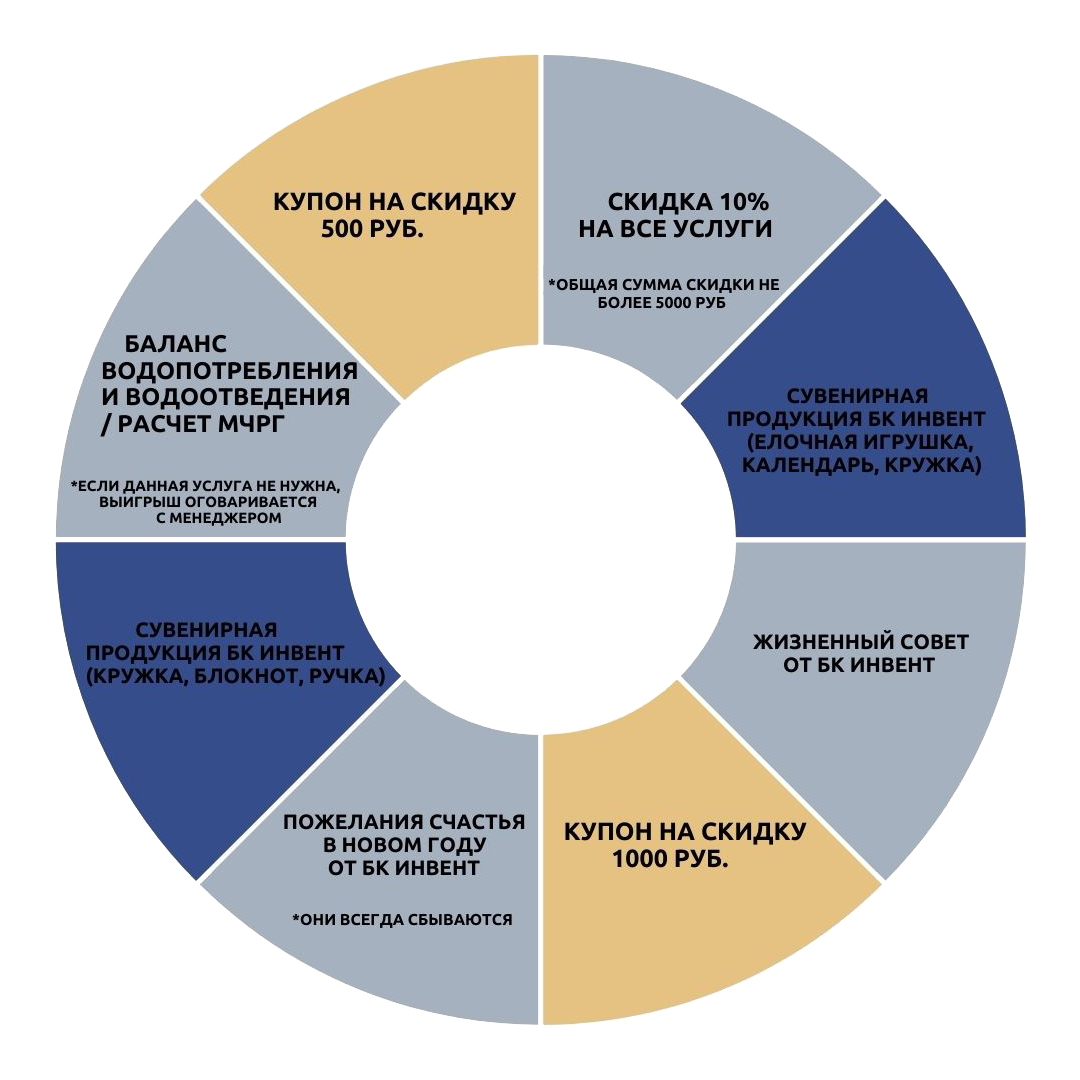
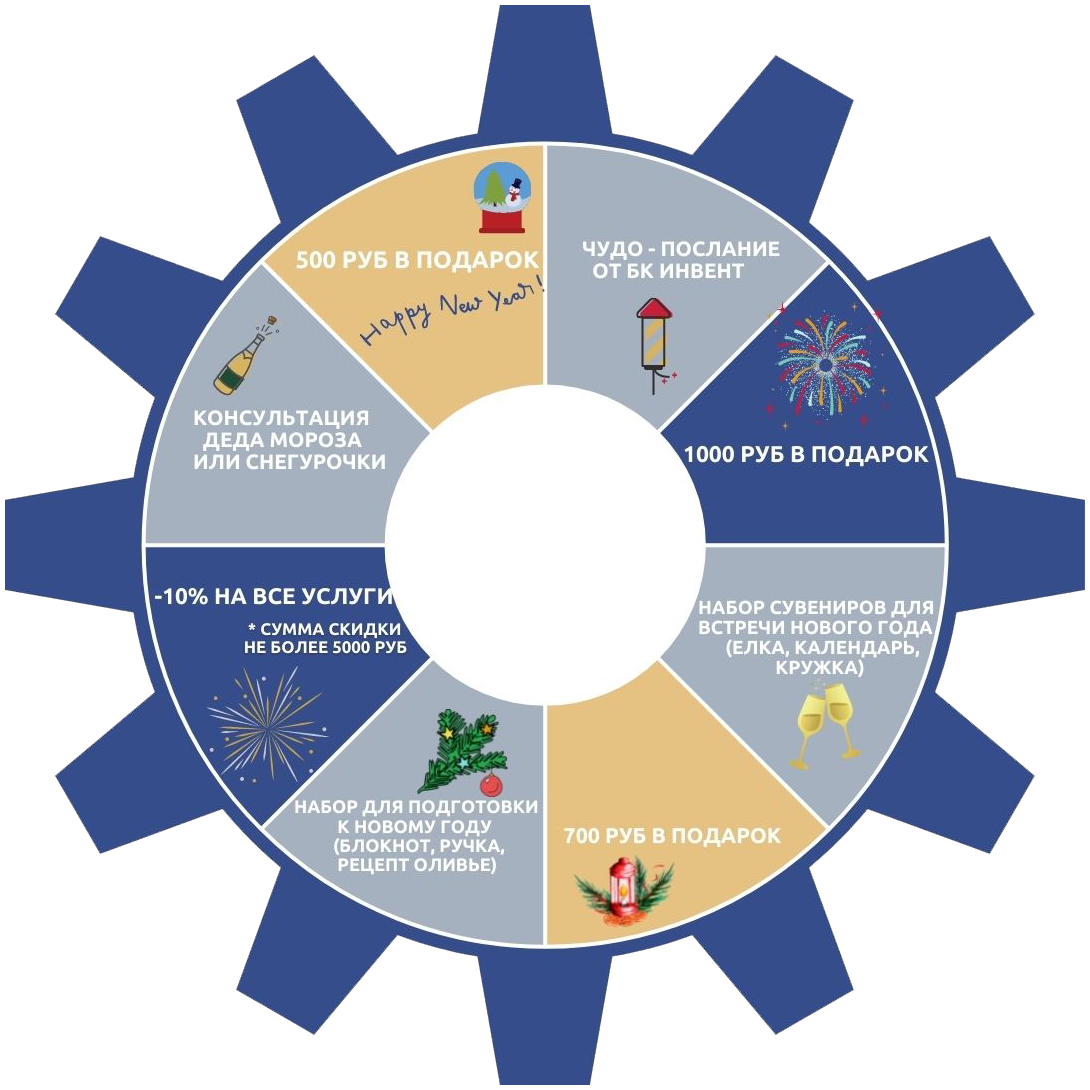
game

diff --git a/app/javascripts/gameRoulette.js b/app/javascripts/gameRoulette.js
@@ -4,43 +4,43 @@ const $ = require('jquery')
 const data = [
   {
     num: 1,
-    title: '1',
-    code: '111'
+    title: '1000 руб в подарок',
+    code: 'B5TLRJEM'
   },
   {
     num: 2,
-    title: '2',
-    code: '222'
+    title: 'Набор сувениров для встречи нового года (елка, календарь, кружка)',
+    code: '6IRLQ189'
   },
   {
     num: 3,
-    title: '3',
-    code: '333'
+    title: '700 руб в подарок',
+    code: 'KX5LX7F2'
   },
   {
     num: 4,
-    title: '4',
-    code: '444'
+    title: 'Набор для подготовки к новому году (блокнот, ручка, рецепт оливье)',
+    code: 'YE83ZAKY'
   },
   {
     num: 5,
-    title: '5',
-    code: '555'
+    title: '-10% на все услуги (* сумма скидки не более 5000 руб)',
+    code: 'QN0P6FE7'
   },
   {
     num: 6,
-    title: '6',
-    code: '666'
+    title: 'Консультация деда мороза или снегурочки',
+    code: 'PRISSDK2'
   },
   {
     num: 7,
-    title: '7',
-    code: '777'
+    title: '500 руб в подарок',
+    code: '853U87AA'
   },
   {
     num: 8,
-    title: '8',
-    code: '888'
+    title: 'Чудо - послание от БК инвент',
+    code: '1K2DGH4U'
   }
 ]
 
@@ -51,8 +51,12 @@ $(function() {
   // localStorage.getItem('test')
 
     let $modalGameRoulette = $('#modal__game-roulette')
+    let $modalGameRouletteCode = $('#modal__game-roulette-code')
     let $modalGameRouletteRun = $('.game-roulette-run')
-    let $modalGameRouletteCode = $('#game-roulette-code')
+    let $gameRouletteForm = $('#gameRouletteForm')
+    
+    let $gameRouletteLogo = $('#game-roulette-logo')
+    let $gameRouletteBtn = $('#game-roulette-btn')
 
     $modalGameRouletteRun.click(function() {
 
@@ -69,8 +73,14 @@ $(function() {
             })
     
             if(element) {
-                alert("Ваш промокод: " + element.title)
-                // $modalGameRoulette.openModal() // Убрать
+                let html = `<h3 style=" color: #4274d6; margin-bottom: 13px; ">Ваш приз</h3><b>${element.title}</b> <br><br><br> Ваш промокод: 
+                <b><spsn style="
+                    border: 2px dashed #f2c37f;
+                    padding: 5px 8px;
+                    margin-left: 4px;
+                ">${element.code}</span></b>`
+                $('#game-roulette-code-html').html(html);
+                $modalGameRouletteCode.openModal()
             } else {
                 $modalGameRoulette.openModal()
             }
@@ -108,32 +118,128 @@ $(function() {
         duration: 2 * 1000,
         elem: div,
         callback: function() {
-            console.log(num)
+            // console.log(num)
             localStorage.setItem('gameRouletteNum', num);
-            let code = null 
+            
+            let element = null 
+            
             data.forEach(el => {
                 if (el.num == num) {
-                    code = el.code
+                  element = el
                 }
             })
-            $modalGameRouletteCode.html('Ваш промокод: ' + code)
+            // $('#game-roulette-code').html(
+            //   `Ваш промокод: 
+            //   <b><span style="
+            //       border: 2px dashed #f2c37f;
+            //       padding: 5px 8px;
+            //       margin-left: 4px;;
+            //     ">${code}</span></b><br><br>`
+            // )
+
+
+            // let element
+            // data.forEach(el => {
+            //     if (el.num == gameRouletteNum) {
+            //         element = el
+            //     }
+            // })
+    
+            let html = `<h3 style=" color: #4274d6; margin-bottom: 13px; ">Ваш приз</h3><b>${element.title}</b> <br><br> Ваш промокод: 
+            <b><spsn style="
+                border: 2px dashed #f2c37f;
+                padding: 5px 8px;
+                margin-left: 4px;
+            ">${element.code}</span></b><br><br>`
+            
+            $('#game-roulette-code').html(html);
+
+            $('#modal__game-roulette-form').openModal()
             // $modalGameRoulette.closeModal()
             // $modalGameRoulette.closeModal()
         }
     })
 
-    let $gameRouletteBtnRun  = $('#gameRouletteBtnRun')
+    $gameRouletteBtn.click(function() {
+      $gameRouletteLogo.css('display', 'block')
+      $gameRouletteBtn.css('display', 'none')
 
-    let run = true;
-    $gameRouletteBtnRun.click(function() {
+      let n = (8 * Math.random() | 0);
+      num = [1, 2, 3, 4, 5, 6, 7, 8][n];
+      // num = 8
+      anim.play(360 * 3 + num * l)
+      // run = false
+      // $gameRouletteForm.css('display', 'none')
+
+      let element
+      data.forEach(el => {
+        if (el.num == num) {
+          element = el
+        }
+      })
+
+      $('#gameRouletteOrder').val(`Акция: ${element.title} Промокод: ${element.code} `)
       
-      if (run) {
-        let n = (8 * Math.random() | 0);
-        num = [1, 2, 3, 4, 5, 6, 7, 8][n];
-        // num = 7
-        anim.play(360 * 3 + num * l)
-        run = false
-        $gameRouletteBtnRun.css('display', 'none')
-      }
     })
-})
+
+    // let $gameRouletteBtnRun  = $('#gameRouletteBtnRun')
+
+    // let run = true;
+    // $gameRouletteBtnRun.click(function() {
+
+
+    //   $gameRouletteForm.submit(function( event ){ 
+    //     event.preventDefault()
+    //     let $phone = $('#gameRouletteForm [name="phone"]')
+
+    //     if ($phone.val().length >= 10) {
+
+    //         if (run) {
+    //         let n = (8 * Math.random() | 0);
+    //         num = [1, 2, 3, 4, 5, 6, 7, 8][n];
+    //         // num = 7
+    //         anim.play(360 * 3 + num * l)
+    //         run = false
+    //         $gameRouletteForm.css('display', 'none')
+
+    //         let element
+    //         data.forEach(el => {
+    //           if (el.num == num) {
+    //               element = el
+    //           }
+    //         })
+
+    //         $('#gameRouletteOrder').val(`Акция: ${element.title} Промокод: ${element.code} `)
+
+    //         $gameRouletteForm.submit();
+    //       }
+
+    //     }
+
+    //   })
+
+    //   $gameRouletteForm.submit();
+      
+      
+      // if (run) {
+      //   let n = (8 * Math.random() | 0);
+      //   num = [1, 2, 3, 4, 5, 6, 7, 8][n];
+      //   // num = 7
+      //   anim.play(360 * 3 + num * l)
+      //   run = false
+      //   $gameRouletteForm.css('display', 'none')
+
+      //   let element
+      //   data.forEach(el => {
+      //       if (el.num == num) {
+      //           element = el
+      //       }
+      //   })
+
+      //   $('#gameRouletteOrder').val(`Акция: ${element.title} Промокод: ${element.code} `)
+
+      //   $gameRouletteForm.submit();
+      // }
+
+    })
+// });

diff --git a/app/javascripts/app.js b/app/javascripts/app.js
@@ -5,7 +5,6 @@ require('./modal')
 require('./resize')
 require('./menu')
 require('./slider')
-require('./gameRoulette')
 // require('./videobox')
 // require('./share') // Акция
 // require('./quiz.js')
@@ -19,6 +18,7 @@ import Analytic from './analytic';
 const API = {
     methods: {
         order: 'https://bkinvent.na4u.ru/api/site/create-lead',
+        game: 'https://bkinvent.na4u.ru/api/site/create-lead',
         hr: 'https://bkinvent.na4u.ru/api/site/hr',
         // order: 'http://localhost:8000/api/site/create-lead',
         review: 'https://private.bk-invent.ru/api/site/create-review',
@@ -31,6 +31,8 @@ const API = {
 // PageViewTracker()
 
 $(function() {
+
+    require('./gameRoulette')
 
     $('.cut__more>a').click(function() {
         let $this = $(this)
@@ -278,6 +280,10 @@ $(function() {
                     if (formData.get('method') == 'hr') {
                         method = 'hr'
                     }
+
+                    if (formData.get('method') == 'game') {
+                        method = 'game'
+                    }
                 }
 
                 if (formData.get('name')) analytic.setLocalStorage('name', formData.get('name'));
@@ -292,8 +298,12 @@ $(function() {
                     processData: false,
                 })
                 .done(function() {
+
                     
-                    $('.modal').closeModal()
+                    if (method != 'game') {
+                        $('.modal').closeModal()
+                    }
+                    
 
                     // analytic.setLocalStorage('name', formData.get('name'))
                     // analytic.setLocalStorage('email', formData.get('email'))
@@ -305,6 +315,15 @@ $(function() {
 
                         if (method == 'order') {
                             $('#modal__ok').openModal()
+                            yaCounter53737453.reachGoal('site')
+    
+                            gtag('event', 'Заявка с сайта', { 
+                                'event_category': 'site', 
+                                'event_action': 'form', 
+                            })
+                        }
+
+                        if (method == 'game') {
                             yaCounter53737453.reachGoal('site')
     
                             gtag('event', 'Заявка с сайта', { 
